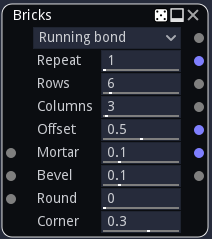
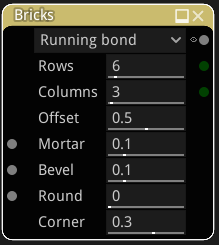
docs: updated and added documentation

diff --git a/material_maker/doc/node_pattern_unevenbricks2.rst b/material_maker/doc/node_pattern_unevenbricks2.rst
@@ -1,22 +1,22 @@
-Uneven Bricks node
-~~~~~~~~~~~~~~~~~~
+Uneven Bricks 2 node
+~~~~~~~~~~~~~~~~~~~~
 
-The **Uneven Bricks** node outputs an uneven brick pattern texture that can be used for walls
-or pavement. It generates an uneven pattern by randomly splitting bricks.
+The **Uneven Bricks 2** node outputs an uneven brick pattern texture that can be used for walls
+or pavement. It generates an uneven pattern by randomly splitting rows of bricks horizontally.
 
-.. image:: images/node_pattern_unevenbricks.png
+.. image:: images/node_pattern_unevenbricks2.png
 	:align: center
 
 Inputs
 ++++++
 
-The **Uneven Bricks** node accepts 3 optional greyscale input maps for the shape mortar,
+The **Uneven Bricks 2** node accepts 3 optional greyscale input maps for the shape mortar,
 bevel and round parameters (the corresponding parameter is multiplied by the map value).
 
 Outputs
 +++++++
 
-The **Uneven Bricks** node provides the following textures:
+The **Uneven Bricks 2** node provides the following textures:
 
 * The first is a greyscale image where bricks are shown in white and mortar in black.
 
@@ -30,18 +30,13 @@ custom UVs etc. to create complex materials that show for example bricks of diff
 Parameters
 ++++++++++
 
-The **Uneven Bricks** node accepts the following parameters:
+The **Uneven Bricks 2** node accepts the following parameters:
+
+* the *Rows* parameter defines the number of brick rows in a single pattern of the texture.
 
 * the *Iterations* parameter defines number of brick split iterations.
 
 * the *Min size* parameter defines the minimum size of a brick.
-
-* the *Randomness* parameter defines the randomness introduced when generating the pattern.
-
-* the *Columns* parameter defines the number of brick rows in a single pattern of the texture.
-
-* the *Offset* parameter defines the offset of odd rows of the pattern. This parameter
-  only applies to the *Running bond* patterns.
 
 * the *Mortar* parameter defines the relative thickness of mortar in patterns.
 
@@ -54,5 +49,5 @@ The **Uneven Bricks** node accepts the following parameters:
 Example images
 ++++++++++++++
 
-.. image:: images/node_unevenbricks_samples.png
+.. image:: images/node_unevenbricks2_samples.png
 	:align: center

diff --git a/material_maker/doc/node_pattern_bricks.rst b/material_maker/doc/node_pattern_bricks.rst
@@ -18,21 +18,14 @@ Outputs
 
 The **Bricks** node provides the following textures:
 
-* The first one is a greyscale image where bricks are shown in white and mortar in black.
+* The first is a greyscale image where bricks are shown in white and mortar in black.
 
-* The second one is a color image where all bricks are drawn using a random uniform color.
+* The second is an RGBA texture that contains the bounding box for each brick.
 
-* The 3rd and 4th textures are greyscale images of the X and Y position of the center of
-  each brick.
+* The 3rd is an RGBA texture that contains the bounding box for each brick corner.
 
-* The 5th texture is an UV map texture for each brick (and can be used with the **CustomUV**
-  node to apply a texture on each brick)
-
-* the 6th texture is an UV map for each corner of each brick (and can be used with the
-  **CustomUV** node to apply a texture on each corner)
-
-Those images can be used together to create complex materials that show for example bricks
-of different colors.
+The bounding box textures can be used in conjunction with **Fill To** nodes to generate random colors,
+custom UVs etc. to create complex materials that show for example bricks of different colors.
 
 Parameters
 ++++++++++
@@ -40,9 +33,6 @@ Parameters
 The **Bricks** node accepts the following parameters:
 
 * the *Pattern* parameter defines the bricks pattern that will be generated.
-
-* the *Repeat* parameter defines the number of patterns on the horizontal and vertical
-  axes of the texture.
 
 * the *Rows* parameter defines the number of brick rows in a single pattern of the texture.
 
@@ -57,7 +47,7 @@ The **Bricks** node accepts the following parameters:
 
 * the *Round* parameter defines the radius of each round corner.
 
-* the *Corner* parameter defines the size of each corner (for the 6th output texture).
+* the *Corner* parameter defines the size of each corner (for the 3rd output texture).
 
 Example images
 ++++++++++++++

diff --git a/material_maker/doc/node_filter_fill_to_orientation.rst b/material_maker/doc/node_filter_fill_to_orientation.rst
@@ -1,0 +1,31 @@
+Fill to Orientation node
+~~~~~~~~~~~~~~~~~~~~~~~~
+
+The **Fill to Orientation** node uses the output of the **Fill** node and fills
+all detected areas with a greyscale color that depends on their orientation.
+
+.. image:: images/node_filter_fill_to_orientation.png
+	:align: center
+
+Inputs
+++++++
+
+The **Fill to Orientation** node accepts the output of a **Fill** node (or a
+compatible output of another node) as input.
+
+Outputs
++++++++
+
+The **Fill to Orientation** node generates a single greyscale image map whose value
+is the orientation of the input (white: horizontal, black: vertical).
+
+Parameters
+++++++++++
+
+The **Fill to Orientation** has a single parameter to invert its output.
+
+Example images
+++++++++++++++
+
+.. image:: images/node_fill_to_orientation_samples.png
+	:align: center

diff --git a/material_maker/doc/nodes_filter.rst b/material_maker/doc/nodes_filter.rst
@@ -43,6 +43,7 @@ The filter nodes accept one or several inputs and generate one or several images
 	node_filter_fill_to_random_grey
 	node_filter_fill_to_random_color
 	node_filter_fill_to_uv
+	node_filter_fill_to_orientation
 	node_filter_math
 	node_filter_smooth_minmax
 	node_filter_maketileable

diff --git a/material_maker/doc/nodes_pattern.rst b/material_maker/doc/nodes_pattern.rst
@@ -10,6 +10,7 @@ The generator nodes are nodes that do not accept any input and generate one or s
 	node_pattern_bricks
 	node_pattern_arc_pavement
 	node_pattern_unevenbricks
+	node_pattern_unevenbricks2
 	node_pattern_weave
 	node_pattern_truchet
 	node_pattern_fibers
